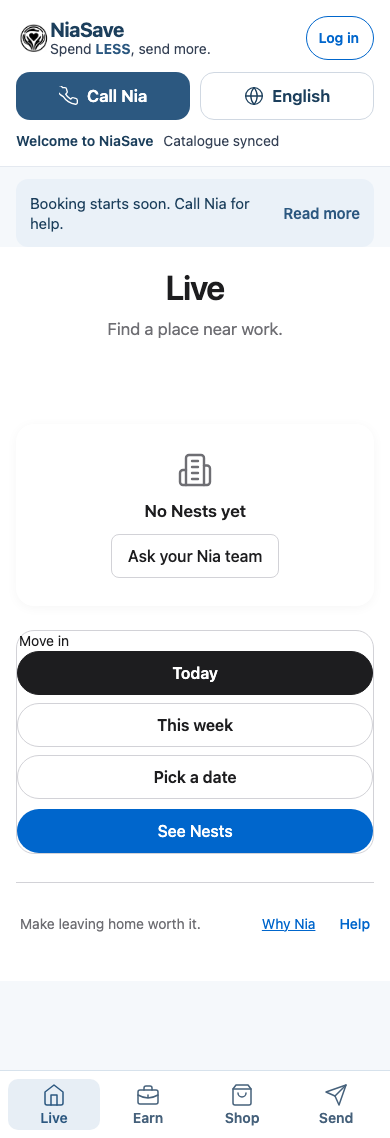
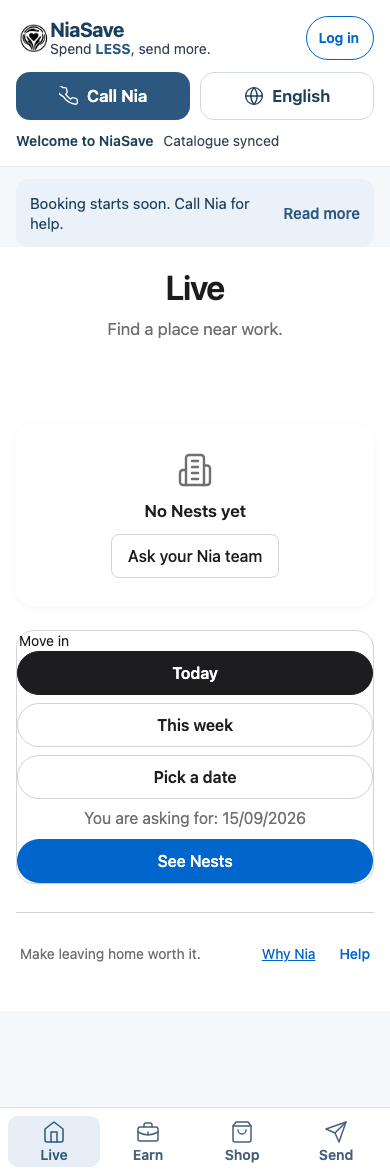
Say Nia does not send money, and show the date she is asking for.
The Send screen no longer says the money goes later, and that line shows even while booking is paused. This week stays inside the week of the day on the chip, and a failed date load still offers another try and a call to Nia.

diff --git a/commerce.js b/commerce.js
@@ -127,7 +127,7 @@ function applyCommitmentGate(root=document){
   const target=root===document?$('#content'):root;
   const shopCopy=page==='shop'&&category!=='insurance'?shopReservationNotice({catalogue:cat,signedIn:!!account,reservationsEnabled:saveCommitmentReady()}):undefined;
   const shoppingOpen=cat?.capabilities?.saveShoppingOpen===true;
-  const copy=shopCopy!==undefined?shopCopy:(saveCommitmentReady()||shoppingOpen)?(['live','earn'].includes(page)||category==='insurance'?OTHER_COMMITMENTS_PAUSED_COPY:page==='send'&&!account?'This is for money you send home.':!account&&shoppingOpen?'Log in to see goods near you and reserve them.':null):PILOT_CLOSED_COPY;
+  const copy=shopCopy!==undefined?shopCopy:page==='send'?(account?null:'This is for money you send home.'):(saveCommitmentReady()||shoppingOpen)?(['live','earn'].includes(page)||category==='insurance'?OTHER_COMMITMENTS_PAUSED_COPY:!account&&shoppingOpen?'Log in to see goods near you and reserve them.':null):PILOT_CLOSED_COPY;
   const previous=target?.querySelector('[data-pilot-paused]');
   if(previous)previous.remove();
   if(target&&copy)target.prepend(pauseNote(copy));
@@ -170,7 +170,7 @@ function prepareJourney(root){
   (root.documentElement||root).dataset.a11yReady=String(audit.ok);
 }
 document.addEventListener('keydown',event=>{const control=event.target.closest('[data-action][role="button"]');if(control&&(event.key==='Enter'||event.key===' ')){event.preventDefault();control.click();}});
-function show(title,body){$('#dialog').classList.remove('signin-dialog','mesha-checkout');document.body.classList.remove('signin-open','mesha-checkout-open');$('#dialog-title').textContent=title;$('#dialog-body').innerHTML=body;const dateWalker=document.createTreeWalker($('#dialog-body'),NodeFilter.SHOW_TEXT);let dateNode;while((dateNode=dateWalker.nextNode()))dateNode.textContent=dateNode.textContent.replace(/\d{4}-\d{2}-\d{2}/g,iso=>showDMY(iso)||iso);ownerControls($('#dialog-body'));applyCommitmentGate($('#dialog-body'));prepareJourney($('#dialog'));if(!$('#dialog').open)$('#dialog').showModal();$('#dialog-body').querySelector('input:not([type=hidden]),button:not(:disabled),select')?.focus({preventScroll:true});}
+function show(title,body){$('#dialog').classList.remove('signin-dialog','mesha-checkout');document.body.classList.remove('signin-open','mesha-checkout-open');$('#dialog-title').textContent=title;$('#dialog-body').innerHTML=body;ownerControls($('#dialog-body'));applyCommitmentGate($('#dialog-body'));prepareJourney($('#dialog'));if(!$('#dialog').open)$('#dialog').showModal();$('#dialog-body').querySelector('input:not([type=hidden]),button:not(:disabled),select')?.focus({preventScroll:true});}
 function unsyncedTapCount(){
   if(!account||owner.active)return 0;
   const sameMember=key=>load(key,null)?.accountId===account.id;
@@ -376,21 +376,26 @@ function liveDateBounds(){
 }
 function liveDateForm(){
   const bounds=liveDateBounds();
-  if(!bounds)return `<p class="info live-dates-missing">${esc(t('Dates could not be loaded.'))}</p>`;
+  if(!bounds){
+    const placesAlreadyRetry=!nestData?.offers?.length&&(!navigator.onLine||(!cat&&shellReadFailed)||stayErrorKind(nestData?.error,{signedIn:Boolean(account||owner.active||sessionExpired)})==='network');
+    const retry=placesAlreadyRetry?'':`<button type="button" class="primary" data-action="live">${t('Try again')}</button>`;
+    return `<div class="live-dates-missing"><p class="info">${esc(t('We could not get the dates. Try again, or call Nia.'))}</p><div class="live-dates-actions">${retry}${callNiaMarkup({t,esc,icon,phone:NIA_HELP_PHONE,className:'call-nia'})}</div></div>`;
+  }
   const {min,max,today,todayIsReal,week}=bounds;
   const current=liveShownDate(bounds);
-  const open=liveDateOpen||(current!==today&&current!==week);
-  const mode=current===today?'today':current===week?'week':'pick';
-  const pickLabel=mode==='pick'?showDMY(current):t('Pick a date');
-  const todayLabel=todayIsReal?t('Today'):showDMY(today);
+  const open=liveDateOpen||(current!==today&&(!week||current!==week));
+  const mode=current===today?'today':week&&current===week?'week':'pick';
+  const todayLabel=todayIsReal?t('Today'):`${t('Soonest')} · ${showDMY(today)}`;
   const picker=open?datePartSelects(current,min,max,{t,esc,partAttr:'live-part'}):'';
-  return `<form id="nest-search-form" class="store-date nest-search live-move"><fieldset class="live-move-set"><legend>${t('Move in')}</legend><div class="live-chips" role="group" aria-label="${esc(t('Move in'))}"><button type="button" class="live-chip" data-live-date="today" aria-pressed="${mode==='today'}">${todayLabel}</button><button type="button" class="live-chip" data-live-date="week" aria-pressed="${mode==='week'}">${t('This week')}</button><button type="button" class="live-chip" data-live-date="pick" aria-pressed="${mode==='pick'}">${esc(pickLabel)}</button></div>${picker}<input type="hidden" name="start" value="${esc(current)}"></fieldset><button class="primary" type="submit">${t('See Nests')}</button></form>`;
+  const weekChip=week?`<button type="button" class="live-chip" data-live-date="week" aria-pressed="${mode==='week'}">${t('This week')}</button>`:'';
+  return `<form id="nest-search-form" class="store-date nest-search live-move"><fieldset class="live-move-set"><legend>${t('Move in')}</legend><div class="live-chips" role="group" aria-label="${esc(t('Move in'))}"><button type="button" class="live-chip" data-live-date="today" aria-pressed="${mode==='today'}">${esc(todayLabel)}</button>${weekChip}<button type="button" class="live-chip" data-live-date="pick" aria-pressed="${mode==='pick'}">${esc(t('Pick a date'))}</button></div><p class="live-date-asked">${esc(t('You are asking for:'))} ${esc(showDMY(current))}</p>${picker}<input type="hidden" name="start" value="${esc(current)}"></fieldset><button class="primary" type="submit">${t('See Nests')}</button></form>`;
 }
 function applyLiveChip(kind){
   const bounds=liveDateBounds();
   if(!bounds)return;
   const {today,week}=bounds;
   if(kind==='pick'){liveDateOpen=true;render();document.querySelector('[data-live-part="day"]')?.focus({preventScroll:true});return;}
+  if(kind==='week'&&!week)return;
   liveDateOpen=false;
   const start=kind==='week'?week:today;
   const form=document.getElementById('nest-search-form');
@@ -463,7 +468,7 @@ function sendView(){if(owner.active)return ownerSendMarkup();
   const state=sendViewState({data:booksData,online:navigator.onLine,signedOut});
   const labels={loading:t('Checking your money plan'),ready:t('Recorded entries available'),stale:t('Statement needs refreshing'),source_missing:signedOut?t('Log in to see the money you send home.'):t('Details did not load.'),unavailable:t('Statement temporarily unavailable'),empty:t('No recorded entries yet'),offline:t('Offline. This may be an older statement')};
   const taskAction=signedOut?`<button type="button" class="primary" data-action="login">${t('Log in','लॉग इन')}</button>`:'';
-  return `<section class="store-screen store-send send-v2"><header class="store-head store-task"><h1>${t('Send')}</h1><p class="nia-transfer-status" role="status"><span class="badge">${t('Sending money has not started')}</span></p><p>${t('This is your plan. No money moves from here.')}</p>${taskAction}</header><p class="pillar-state" data-state="${state}" role="status">${esc(labels[state])}</p>${signedOut?`${sendExample()}<p class="send-login-line">${t('Log in to see your money.')}</p><div class="send-example-actions">${taskAction}${callNiaMarkup({t,esc,icon,phone:NIA_HELP_PHONE,className:'call-nia'})}</div>`:state==='loading'?pictureState('loading',t('Checking your money plan')):booksMarkup(booksData,booksMonth,account,{t,esc,money})}<section class="panel stack books-transfer"><div class="row"><h2>${t('Sending money')}</h2><span class="badge">${t('Sending money has not started')}</span></div><p>${t('Only money the Nia team has recorded shows as sent. Nothing is sent from here.')}</p></section>${footer()}</section>`;}
+  return `<section class="store-screen store-send send-v2"><header class="store-head store-task"><h1>${t('Send')}</h1><p class="nia-transfer-status" role="status"><span class="badge">${t('Sending money has not started')}</span></p><p>${t('This is only your own record. Nia does not send money.')}</p>${taskAction}</header><p class="pillar-state" data-state="${state}" role="status">${esc(labels[state])}</p>${signedOut?`${sendExample()}<div class="send-example-actions">${taskAction}${callNiaMarkup({t,esc,icon,phone:NIA_HELP_PHONE,className:'call-nia'})}</div>`:state==='loading'?pictureState('loading',t('Checking your money plan')):booksMarkup(booksData,booksMonth,account,{t,esc,money})}<section class="panel stack books-transfer"><div class="row"><h2>${t('Sending money')}</h2><span class="badge">${t('Sending money has not started')}</span></div><p>${t('Only money the Nia team has recorded shows as sent. Nothing is sent from here.')}</p></section>${footer()}</section>`;}
 
 async function loadNests(){nestData=nestStart?await api('/nests/availability',{start:nestStart}):await api('/nests');nestStart=nestData.start;emitAnalytics('live','availability_search',{outcome:(nestData.offers||[]).length?'results':'empty'});}
 // Local illustrative artwork only. Jat's published studio media will replace this preview map.

diff --git a/commerce-locales/bn.js b/commerce-locales/bn.js
@@ -465,7 +465,7 @@ export default {
   "Check price & availability": "Check price & availability",
   "Confirming…": "Confirming…",
   "Reserved. Your collection code is ": "Reserved. Your collection code is ",
-  "Try again": "Try again",
+  "Try again": "আবার চেষ্টা করুন",
   "Review again": "Review again",
   "Save categories": "Save categories",
   "Everyday essentials": "রোজকার জিনিস",
@@ -883,8 +883,11 @@ export default {
   "See work near where you stay": "আপনি যেখানে থাকেন, তার কাছে কাজ দেখুন",
   "Walk to work": "কাজে হেঁটে যান",
   "Sending money": "টাকা পাঠানো",
-  "Sending money has not started": "টাকা পাঠানো এখনও শুরু হয়নি",
-  "This is your plan. No money moves from here.": "এটা শুধু আপনার হিসাব। টাকা এখন যাবে না।",
+  "Sending money has not started": "টাকা পাঠানো শুরু হয়নি",
+  "This is only your own record. Nia does not send money.": "এটা শুধু আপনার নিজের হিসাব। নিয়া টাকা পাঠায় না।",
+  "Soonest": "সবচেয়ে তাড়াতাড়ি",
+  "You are asking for:": "আপনি এই তারিখ চাইছেন:",
+  "We could not get the dates. Try again, or call Nia.": "তারিখ পাইনি। আবার চেষ্টা করুন, অথবা নিয়াকে ফোন করুন।",
   "Only money the Nia team has recorded shows as sent. Nothing is sent from here.": "নিয়া দল যা টাকা লিখেছে, শুধু সেটাই পাঠানো দেখাবে। এখান থেকে টাকা যাবে না।",
   "Spend": "খরচ",
   "Example": "উদাহরণ",

diff --git a/commerce-books.js b/commerce-books.js
@@ -55,15 +55,15 @@ export function clampIso(year,month,day,min,max){const dim=monthLastDay(year,mon
 export function monthsInRange(year,min,max){const months=[];for(let m=1;m<=12;m++){const start=isoJoin(year,m,1);const end=isoJoin(year,m,monthLastDay(year,m));if(end>=min&&start<=max)months.push(m);}return months;}
 export function daysInRange(year,month,min,max){const days=[];const dim=monthLastDay(year,month);for(let d=1;d<=dim;d++){const iso=isoJoin(year,month,d);if(iso>=min&&iso<=max)days.push(d);}return days;}
 export function weekMoveIn(min,max,todayChip){
-  const part=isoParts(todayChip);if(!part)return todayChip||min||'';
-  const utc=Date.UTC(part.y,part.m-1,part.d);const weekday=new Date(utc).getUTCDay();const weekStart=utc-weekday*86400000;
-  let iso=new Date(weekStart+6*86400000).toISOString().slice(0,10);
-  if(max&&iso>max)iso=max;if(min&&iso<min)iso=min;
-  if(iso!==todayChip)return iso;
-  for(let i=weekday+1;i<=6;i++){const candidate=new Date(weekStart+i*86400000).toISOString().slice(0,10);if(candidate>=min&&candidate<=max&&candidate!==todayChip)return candidate;}
-  for(let i=weekday-1;i>=0;i--){const candidate=new Date(weekStart+i*86400000).toISOString().slice(0,10);if(candidate>=min&&candidate<=max&&candidate!==todayChip)return candidate;}
-  for(let i=1;i<=6;i++){const candidate=new Date(utc+i*86400000).toISOString().slice(0,10);if(max&&candidate>max)break;if((!min||candidate>=min)&&candidate!==todayChip)return candidate;}
-  return iso;
+  const part=isoParts(todayChip);if(!part)return '';
+  const utc=Date.UTC(part.y,part.m-1,part.d);const weekday=new Date(utc).getUTCDay();
+  for(let i=1;i<=6-weekday;i++){
+    const candidate=new Date(utc+i*86400000).toISOString().slice(0,10);
+    if(min&&candidate<min)continue;
+    if(max&&candidate>max)return '';
+    if(candidate!==todayChip)return candidate;
+  }
+  return '';
 }
 export function datePartSelects(iso,min,max,{t,esc,partAttr}){
   const part=isoParts(iso);if(!part)return '';

diff --git a/commerce-locales/hi.js b/commerce-locales/hi.js
@@ -298,12 +298,15 @@ export default {
   "See work near where you stay": "आप जहाँ रहते हैं, उसके पास काम देखें",
   "Walk to work": "काम तक पैदल जाएँ",
   "Sending money": "पैसे भेजना",
-  "Sending money has not started": "पैसे भेजना अभी शुरू नहीं हुआ",
-  "This is your plan. No money moves from here.": "यह सिर्फ़ आपका हिसाब है। पैसे अभी नहीं जाएँगे।",
+  "Sending money has not started": "पैसे भेजना शुरू नहीं है",
+  "This is only your own record. Nia does not send money.": "यह सिर्फ़ आपका अपना हिसाब है। निया पैसे नहीं भेजती।",
   "Only money the Nia team has recorded shows as sent. Nothing is sent from here.": "निया टीम ने जो पैसा लिखा है, वही भेजा हुआ दिखेगा। यहाँ से पैसे नहीं जाते।",
   "Spend": "खर्च",
   "Example": "उदाहरण",
-  "Move in": "आएँ",
+  "Move in": "आने की तारीख",
+  "Soonest": "सबसे जल्दी",
+  "You are asking for:": "आप यह तारीख माँग रहे हैं:",
+  "We could not get the dates. Try again, or call Nia.": "तारीखें नहीं मिलीं। फिर कोशिश करें, या निया को फ़ोन करें।",
   "See Nests": "नेस्ट देखें",
   "Log in to see your money.": "अपना पैसा देखने के लिए लॉग इन करें।",
   "Log in to see the money you send home.": "घर भेजा पैसा देखने के लिए लॉग इन करें।",

diff --git a/commerce-locales/ta.js b/commerce-locales/ta.js
@@ -653,8 +653,11 @@ export default {
   "See work near where you stay": "நீங்கள் தங்கும் இடத்துக்கு அருகில் வேலையைப் பாருங்கள்",
   "Walk to work": "வேலைக்கு நடந்து செல்லுங்கள்",
   "Sending money": "பணம் அனுப்புதல்",
-  "Sending money has not started": "பணம் அனுப்புவது இன்னும் தொடங்கவில்லை",
-  "This is your plan. No money moves from here.": "இது உங்கள் கணக்கு மட்டும். பணம் இப்போது போகாது.",
+  "Sending money has not started": "பணம் அனுப்புவது தொடங்கவில்லை",
+  "This is only your own record. Nia does not send money.": "இது உங்கள் சொந்த கணக்கு மட்டும். நியா பணம் அனுப்புவதில்லை.",
+  "Soonest": "மிகச் சீக்கிரமாக",
+  "You are asking for:": "நீங்கள் இந்த தேதியைக் கேட்கிறீர்கள்:",
+  "We could not get the dates. Try again, or call Nia.": "தேதிகள் கிடைக்கவில்லை. மீண்டும் முயலுங்கள், அல்லது நியாவை போன் செய்யுங்கள்.",
   "Only money the Nia team has recorded shows as sent. Nothing is sent from here.": "நியா குழு எழுதி வைத்த பணம் மட்டுமே அனுப்பியதாகத் தெரியும். இங்கிருந்து பணம் போகாது.",
   "Spend": "செலவு",
   "Example": "உதாரணம்",

diff --git a/commerce-locales/mr.js b/commerce-locales/mr.js
@@ -451,8 +451,11 @@ export default {
   "See work near where you stay": "तुम्ही जिथे राहता, त्याच्या जवळ काम बघा",
   "Walk to work": "कामापर्यंत चालत जा",
   "Sending money": "पैसे पाठवणे",
-  "Sending money has not started": "पैसे पाठवणे अजून सुरू झालेले नाही",
-  "This is your plan. No money moves from here.": "हा फक्त तुमचा हिशोब आहे. पैसे आत्ता जाणार नाहीत.",
+  "Sending money has not started": "पैसे पाठवणे सुरू झालेले नाही",
+  "This is only your own record. Nia does not send money.": "हा फक्त तुमचा स्वतःचा हिशोब आहे. निया पैसे पाठवत नाही.",
+  "Soonest": "सर्वात लवकर",
+  "You are asking for:": "तुम्ही ही तारीख मागत आहात:",
+  "We could not get the dates. Try again, or call Nia.": "तारखा मिळाल्या नाहीत. पुन्हा प्रयत्न करा, किंवा नियाला फोन करा.",
   "Only money the Nia team has recorded shows as sent. Nothing is sent from here.": "निया टीमने जे पैसे लिहिले, तेच पाठवलेले दिसेल. इथून पैसे जात नाहीत.",
   "Spend": "खर्च",
   "Example": "उदाहरण",

diff --git a/commerce-locales/kn.js b/commerce-locales/kn.js
@@ -472,8 +472,11 @@ export default {
   "See work near where you stay": "ನೀವು ಇರುವ ಜಾಗದ ಹತ್ತಿರ ಕೆಲಸ ನೋಡಿ",
   "Walk to work": "ಕೆಲಸಕ್ಕೆ ನಡೆದು ಹೋಗಿ",
   "Sending money": "ಹಣ ಕಳುಹಿಸುವುದು",
-  "Sending money has not started": "ಹಣ ಕಳುಹಿಸುವುದು ಇನ್ನೂ ಶುರುವಾಗಿಲ್ಲ",
-  "This is your plan. No money moves from here.": "ಇದು ನಿಮ್ಮ ಲೆಕ್ಕ ಮಾತ್ರ. ಹಣ ಈಗ ಹೋಗುವುದಿಲ್ಲ.",
+  "Sending money has not started": "ಹಣ ಕಳುಹಿಸುವುದು ಶುರುವಾಗಿಲ್ಲ",
+  "This is only your own record. Nia does not send money.": "ಇದು ನಿಮ್ಮ ಸ್ವಂತ ಲೆಕ್ಕ ಮಾತ್ರ. ನಿಯಾ ಹಣ ಕಳುಹಿಸುವುದಿಲ್ಲ.",
+  "Soonest": "ಅತಿ ಬೇಗ",
+  "You are asking for:": "ನೀವು ಈ ದಿನಾಂಕವನ್ನು ಕೇಳುತ್ತಿದ್ದೀರಿ:",
+  "We could not get the dates. Try again, or call Nia.": "ದಿನಾಂಕಗಳು ಸಿಗಲಿಲ್ಲ. ಮತ್ತೆ ಪ್ರಯತ್ನಿಸಿ, ಅಥವಾ ನಿಯಾಗೆ ಫೋನ್ ಮಾಡಿ.",
   "Only money the Nia team has recorded shows as sent. Nothing is sent from here.": "ನಿಯಾ ತಂಡ ಬರೆದ ಹಣ ಮಾತ್ರ ಕಳುಹಿಸಿದಂತೆ ಕಾಣುತ್ತದೆ. ಇಲ್ಲಿಂದ ಹಣ ಹೋಗುವುದಿಲ್ಲ.",
   "Spend": "ಖರ್ಚು",
   "Example": "ಉದಾಹರಣೆ",

diff --git a/commerce-shell.css b/commerce-shell.css
@@ -291,6 +291,12 @@ body .member-shell #content .shop-v2-canvas{max-width:720px;min-width:0;backgrou
 .store-live .live-chip{width:100%;box-sizing:border-box;flex:none;min-height:44px;font-size:16px;font-weight:600;text-align:center;border-radius:999px;white-space:nowrap}
 .store-live .live-chip[aria-pressed=true]{background:var(--fg);color:#fff;border-color:var(--fg)}
 .store-live .live-move legend,.date-parts label{font-size:14px;line-height:1.4}
+.store-live .live-date-asked{margin:8px 0 0;font-size:16px;line-height:1.4;text-align:center}
+.store-live .live-dates-missing{margin:0 16px;display:grid;gap:8px}
+.store-live .live-dates-missing .info{margin:0;font-size:16px;line-height:1.4}
+.store-live .live-dates-actions{display:flex;flex-wrap:wrap;gap:8px;align-items:center}
+.store-live .live-dates-actions .call-nia{display:inline-flex;align-items:center;gap:8px;min-height:44px}
+#content > .info[data-pilot-paused]{margin:12px 16px 0;font-size:16px;line-height:1.4}
 .date-parts{display:grid;grid-template-columns:repeat(3,minmax(0,1fr));gap:8px;margin-top:8px;width:100%}
 .date-parts select{width:100%;min-height:44px;font-size:16px}
 .books-date{border:0;margin:0;padding:0;min-width:0}

diff --git a/commerce-locales/member-updates/hi.js b/commerce-locales/member-updates/hi.js
@@ -64,7 +64,7 @@ export default {
   "Refresh statement": "विवरण ताज़ा करें",
   "Earnings": "कमाई",
   "Expenses": "खर्च",
-  "Sent home": "घर भेजा",
+  "Sent home": "घर भेजा पैसा",
   "Refund": "वापसी",
   "Choose whether to calculate your Nia health score.": "चुनें कि अपना निया हेल्थ स्कोर निकालना है या नहीं।",
   "Refresh your records before calculating a score.": "स्कोर निकालने से पहले रिकॉर्ड ताज़ा करें।",

diff --git a/commerce-waves.js b/commerce-waves.js
@@ -63,7 +63,7 @@ function sendCard(hasPrimarySendView = false) {
     ${hasPrimarySendView ? '' : `<header class="store-head send-safety-fallback">
       <h1>Send</h1>
       <p class="nia-transfer-status" role="status"><span class="badge">Sending money has not started</span></p>
-      <p>This is your plan. No money moves from here.</p>
+      <p>This is only your own record. Nia does not send money.</p>
     </header>`}
     <h2>Plan money home</h2>
     <p>Money does not move.</p>
